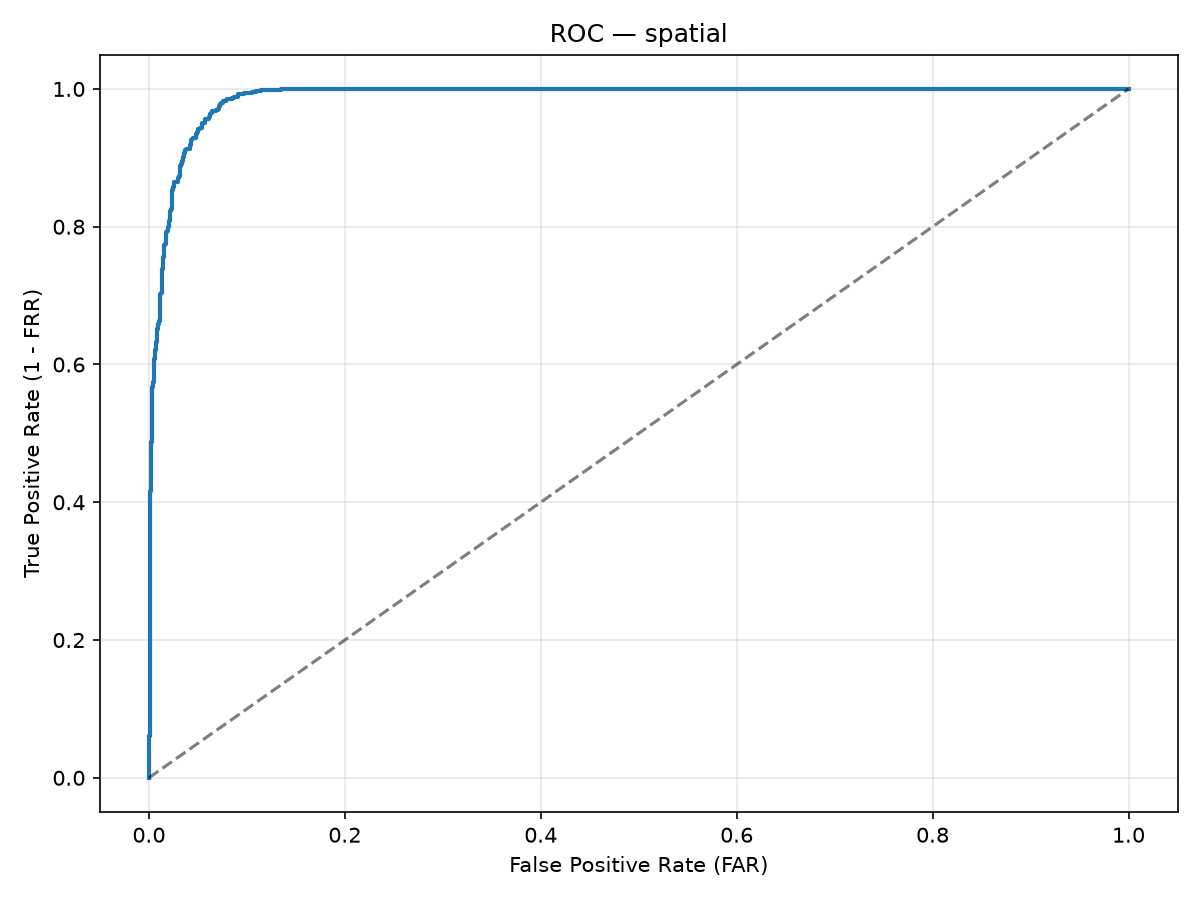
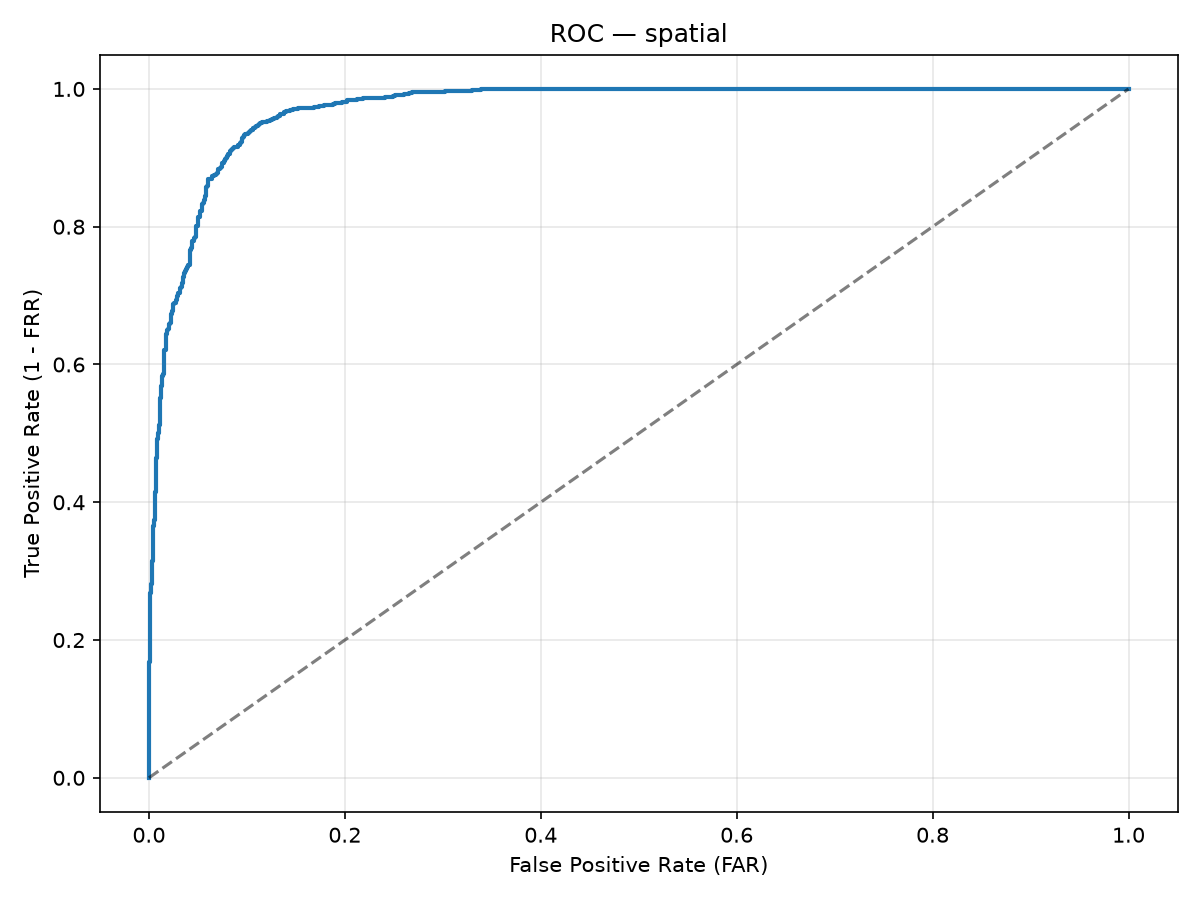
chore: update spatial decision threshold, evaluation metrics, and result plots

Changed region(s): [[0.1233, 0.1867, 0.185, 0.6533], [0.1542, 0.0933, 0.4008, 0.1867]]

diff --git a/config/settings.py b/config/settings.py
@@ -216,7 +216,7 @@ ALPHA_GRID_STEP = 0.05
 # Decision threshold settings (S_final >= tau -> Genuine, else Forged).
 # Calibrated on validation set under enrollment protocol (K=5) at EER balance point (FAR = FRR).
 # See AGENTS.md and SUMMARY.md.
-SPATIAL_DECISION_THRESHOLD = 0.7711     # Calibrated spatial branch threshold (EER on validation)
+SPATIAL_DECISION_THRESHOLD = 0.7731     # Calibrated spatial branch threshold (EER on validation)
 TEMPORAL_DECISION_THRESHOLD = 0.7900    # Calibrated temporal branch threshold (EER on validation)
 DECISION_THRESHOLD = 0.8196             # Calibrated threshold tau for late-fused model evaluation
 

diff --git a/README.md b/README.md
@@ -210,9 +210,9 @@ Verification evaluates a probe against an enrolled gallery using nearest-referen
 | References per user ($K$) | **5**                                                                | `NUM_ENROLLMENT_REFERENCES = 5`                             |
 | Matching Rule             | Nearest Reference: $d_{min} = \min_{i} \|e_{probe} - e_{ref, i}\|_2$ | `_nearest_reference_score`                                  |
 | Similarity Score          | $S = \frac{1}{1 + d_{min}}$                                          | —                                                           |
-| Decision Threshold        | Spatial $\tau = 0.7711$, Temporal $\tau = 0.7900$                    | `SPATIAL_DECISION_THRESHOLD`, `TEMPORAL_DECISION_THRESHOLD` |
+| Decision Threshold        | Spatial $\tau = 0.7731$, Temporal $\tau = 0.7900$                    | `SPATIAL_DECISION_THRESHOLD`, `TEMPORAL_DECISION_THRESHOLD` |
 
-Increasing enrolled references improves verification accuracy without retraining. The $K = 10$ figures cited in an earlier pass (BHSig260 Hindi 4.05% EER, SigComp2011 Dutch 4.93% EER) predate the current $K = 5$ headline above (Hindi 1.92%, Dutch 4.11%) and are now worse than it; they are stale and a re-measurement via `benchmark.py --enroll 10` is owed before citing a $K = 10$ number again.
+Increasing enrolled references improves accuracy without retraining, with diminishing returns. Swept on the shipped weights (`benchmark.py --enroll K`, K = 1 to 15, 10 draws each): spatial pooled EER 11.71% at $K=1$, 8.72% at $K=5$, 7.86% at $K=10$, 7.82% at $K=15$; temporal 13.72%, 7.81%, 6.99%, 6.31%. Both curves are flat past $K \approx 10$ (Hindi 4.65%, SigComp2011 Dutch 3.53% at $K=10$). $K=5$ ships; see SUMMARY.md for why.
 
 ---
 
@@ -291,12 +291,12 @@ The table below benchmarks this project against published state-of-the-art resul
 | ----------------------- | :-----------------: | -------------------------------------------------------- | :----: | :--------------------------: |
 | **CEDAR**               |    **0.00%** EER    | Writer-Independent Siamese CNN (50 train / 5 test)       |  [1]   |    **0.00% $\pm$ 0.00%**     |
 | **CEDAR**               |      4.63% EER      | Writer-Dependent SVM on CNN features ($K=12$)            |  [2]   |    **0.00% $\pm$ 0.00%**     |
-| **BHSig260 Bengali**    |   **13.89%** EER    | Writer-Independent Siamese CNN (50 train / 50 test)      |  [1]   |    **1.48% $\pm$ 0.36%**     |
-| **BHSig260 Hindi**      |     15.36% EER      | Writer-Independent Siamese CNN (100 train / 60 test)     |  [1]   |    **1.92% $\pm$ 0.29%**     |
-| **UTSig (Persian)**     |    **9.80%** EER    | Writer-Dependent SVM, Persian transfer learning ($K=10$) |  [3]   |      30.77% $\pm$ 1.65%      |
-| **UTSig (Persian)**     |     11.16% EER      | Writer-Dependent SVM, Persian transfer learning ($K=5$)  |  [3]   |      30.77% $\pm$ 1.65%      |
-| **UTSig (Persian)**     |     17.45% EER      | Writer-Dependent DMML on HOG features ($K=12$)           |  [4]   |      30.77% $\pm$ 1.65%      |
-| **UTSig (Persian)**     |     29.71% EER      | Writer-Dependent SVM on geometric features ($K=12$)      |  [5]   |      30.77% $\pm$ 1.65%      |
+| **BHSig260 Bengali**    |   **13.89%** EER    | Writer-Independent Siamese CNN (50 train / 50 test)      |  [1]   |    **8.17% $\pm$ 1.07%**     |
+| **BHSig260 Hindi**      |     15.36% EER      | Writer-Independent Siamese CNN (100 train / 60 test)     |  [1]   |    **5.33% $\pm$ 0.50%**     |
+| **UTSig (Persian)**     |    **9.80%** EER    | Writer-Dependent SVM, Persian transfer learning ($K=10$) |  [3]   |      28.10% $\pm$ 3.21%      |
+| **UTSig (Persian)**     |     11.16% EER      | Writer-Dependent SVM, Persian transfer learning ($K=5$)  |  [3]   |      28.10% $\pm$ 3.21%      |
+| **UTSig (Persian)**     |     17.45% EER      | Writer-Dependent DMML on HOG features ($K=12$)           |  [4]   |      28.10% $\pm$ 3.21%      |
+| **UTSig (Persian)**     |     29.71% EER      | Writer-Dependent SVM on geometric features ($K=12$)      |  [5]   |      28.10% $\pm$ 3.21%      |
 | **SVC2004 Task 2**      |    **2.89%** EER    | Competition winner, user-specific thresholds ($K=5$)     |  [6]   |      13.58% $\pm$ 2.21%      |
 | **SVC2004 Task 2**      |     77.00% Acc      | Writer-Independent Siamese CNN (35 train / 5 test)       |  [7]   |      13.58% $\pm$ 2.21%      |
 | **SigComp2011 Dutch**   |    _Competition_    | Multi-system reference benchmark                         |  [8]   |    **4.11% $\pm$ 1.03%**     |
@@ -308,7 +308,7 @@ $\dagger$ _Note: MOBISIG figures reflect a separate touchscreen evaluation model
 
 #### Analysis of Protocol Differences & Accuracy Gaps
 
-- **UTSig Protocol Gap:** Published results achieving 9–17% EER on UTSig rely on **writer-dependent** training (training per-user classifiers with $K=10$ to $12$ references). In our strictly writer-independent, few-shot enrollment setup, Persian signatures exhibit complex stroke loops that yield 30.77% EER.
+- **UTSig Protocol Gap:** Published results achieving 9–17% EER on UTSig rely on **writer-dependent** training (training per-user classifiers with $K=10$ to $12$ references). In our strictly writer-independent, few-shot enrollment setup, Persian signatures exhibit complex stroke loops that yield 28.10% EER.
 - **SVC2004 Intrinsic Hardness:** Published SVC2004 benchmarks below 3% utilize _a posteriori_ user-specific thresholds. Under a global threshold, SVC2004 is intrinsically challenging: DTW alignment confirms an intra-genuine distance ratio of 1.44 (vs 1.61 for Dutch) and a median forgery separation $z$-score of 1.37 (vs 2.23 for Dutch).
 - **SigComp2011 Target Tier:** On true pen digitizers (SigComp2011 Dutch), our temporal model achieves **4.11% EER**, satisfying the $\le 5\%$ target for pen-tablet hardware.
 - **Fusion is not unconditionally better.** Late fusion helps when the two branches are of comparable strength, and *hurts* when one pulls ahead. Measured on writers neither branch trained on: fusion improves the single temporal model (3.96% → 3.62% in §15; 4.41% → 3.50% on the second paired corpus, SigComp2009 / NFI, §25) and degrades the six-seed ensemble (2.61% → 4.63%, losing 22 of 25 draws). For the pen-tablet tier the ensemble is served **unimodally**; fusion is used where the spatial branch is competitive. See `SUMMARY.md` Part 9 §15.
@@ -336,7 +336,7 @@ Device support is architected in tiers based on hardware capability:
 | Tier          | Hardware Target          | Primary Dataset Proxy | Modality & Script       |  Target EER  |     Measured EER      |
 | ------------- | ------------------------ | --------------------- | ----------------------- | :----------: | :-------------------: |
 | **Primary**   | XPPen Deco 640 Tablet    | SigComp2011 Dutch     | Online Pen Trajectory   | $\le 5.0\%$  | **4.11% $\pm$ 1.03%** |
-| **Secondary** | Document Scanners / Cams | CEDAR / BHSig260      | Offline Scanned Image   | $\le 10.0\%$ | **5.44% $\pm$ 0.34%** |
+| **Secondary** | Document Scanners / Cams | CEDAR / BHSig260      | Offline Scanned Image   | $\le 10.0\%$ | **8.72% $\pm$ 0.42%** |
 | **Tertiary**  | Mobile / Touchscreen     | MOBISIG               | Capacitive Finger Touch | $\le 20.0\%$ |        21.26%         |
 
 ---
@@ -347,11 +347,11 @@ Shipped weights evaluated on open corpora using `scripts/benchmark.py --enroll 5
 
 | Branch       | Dataset             | Writers |   Mean $\pm$ SD EER   | Pooled EER | Cohen's d |
 | ------------ | ------------------- | :-----: | :-------------------: | :--------: | :-------: |
-| **Spatial**  | **All Combined**    | **65**  | **5.44% $\pm$ 0.34%** | **5.52%**  | **2.316** |
-| Spatial      | CEDAR               |    8    |   0.00% $\pm$ 0.00%   |   0.00%    |   7.805   |
-| Spatial      | BHSig260 Hindi      |   23    |   1.92% $\pm$ 0.29%   |   1.93%    |   3.064   |
-| Spatial      | BHSig260 Bengali    |   16    |   1.48% $\pm$ 0.36%   |   1.55%    |   3.333   |
-| Spatial      | UTSig               |   18    |  30.77% $\pm$ 1.65%   |   30.43%   |   1.084   |
+| **Spatial**  | **All Combined**    | **65**  | **8.72% $\pm$ 0.42%** | **8.55%**  | **1.970** |
+| Spatial      | CEDAR               |    8    |   0.00% $\pm$ 0.00%   |   0.00%    |   6.674   |
+| Spatial      | BHSig260 Hindi      |   23    |   5.33% $\pm$ 0.50%   |   5.43%    |   2.313   |
+| Spatial      | BHSig260 Bengali    |   16    |   8.17% $\pm$ 1.07%   |   8.65%    |   2.139   |
+| Spatial      | UTSig               |   18    |  28.10% $\pm$ 3.21%   |   28.75%   |   0.947   |
 | **Temporal** | **All Combined**    | **31**  | **7.77% $\pm$ 0.67%** | **7.67%**  | **1.710** |
 | Temporal     | SigComp2011 Dutch   |   15    |   4.11% $\pm$ 1.03%   |   4.18%    |   2.450   |
 | Temporal     | SigComp2011 Chinese |    6    |   5.28% $\pm$ 0.85%   |   5.23%    |   1.782   |
@@ -365,7 +365,7 @@ Shipped weights evaluated on open corpora using `scripts/benchmark.py --enroll 5
 
 ### Operating Point & Confusion Matrices
 
-Confusion matrices evaluated at fixed production thresholds (`SPATIAL_DECISION_THRESHOLD = 0.7711`, `TEMPORAL_DECISION_THRESHOLD = 0.7900`):
+Confusion matrices evaluated at fixed production thresholds (`SPATIAL_DECISION_THRESHOLD = 0.7731`, `TEMPORAL_DECISION_THRESHOLD = 0.7900`):
 
 > The notebook is committed **without stored cell outputs**. They were 88% of a
 > 843 KB file and made every re-run an unreadable diff. The figures it produces
@@ -378,7 +378,7 @@ Confusion matrices evaluated at fixed production thresholds (`SPATIAL_DECISION_T
 
 | Modality     | True Reject | False Accept | True Accept | False Reject |    FAR     |    FRR     |
 | ------------ | ----------: | -----------: | ----------: | -----------: | :--------: | :--------: |
-| **Spatial**  |       1,397 |           73 |       1,209 |           80 | **4.97%**  | **6.21%**  |
+| **Spatial**  |       1,345 |          125 |       1,177 |          112 | **8.50%**  | **8.69%**  |
 | **Temporal** |         564 |           63 |         540 |           32 | **10.05%** | **5.59%**  |
 
 _Error Complementarity:_ Spatial and temporal modalities exhibit complementary error distributions ($\phi < 0$). Spatial models tend toward false rejections (rejecting genuine variations), while temporal models tend toward false acceptances. Multimodal late fusion effectively balances both operating regimes.
